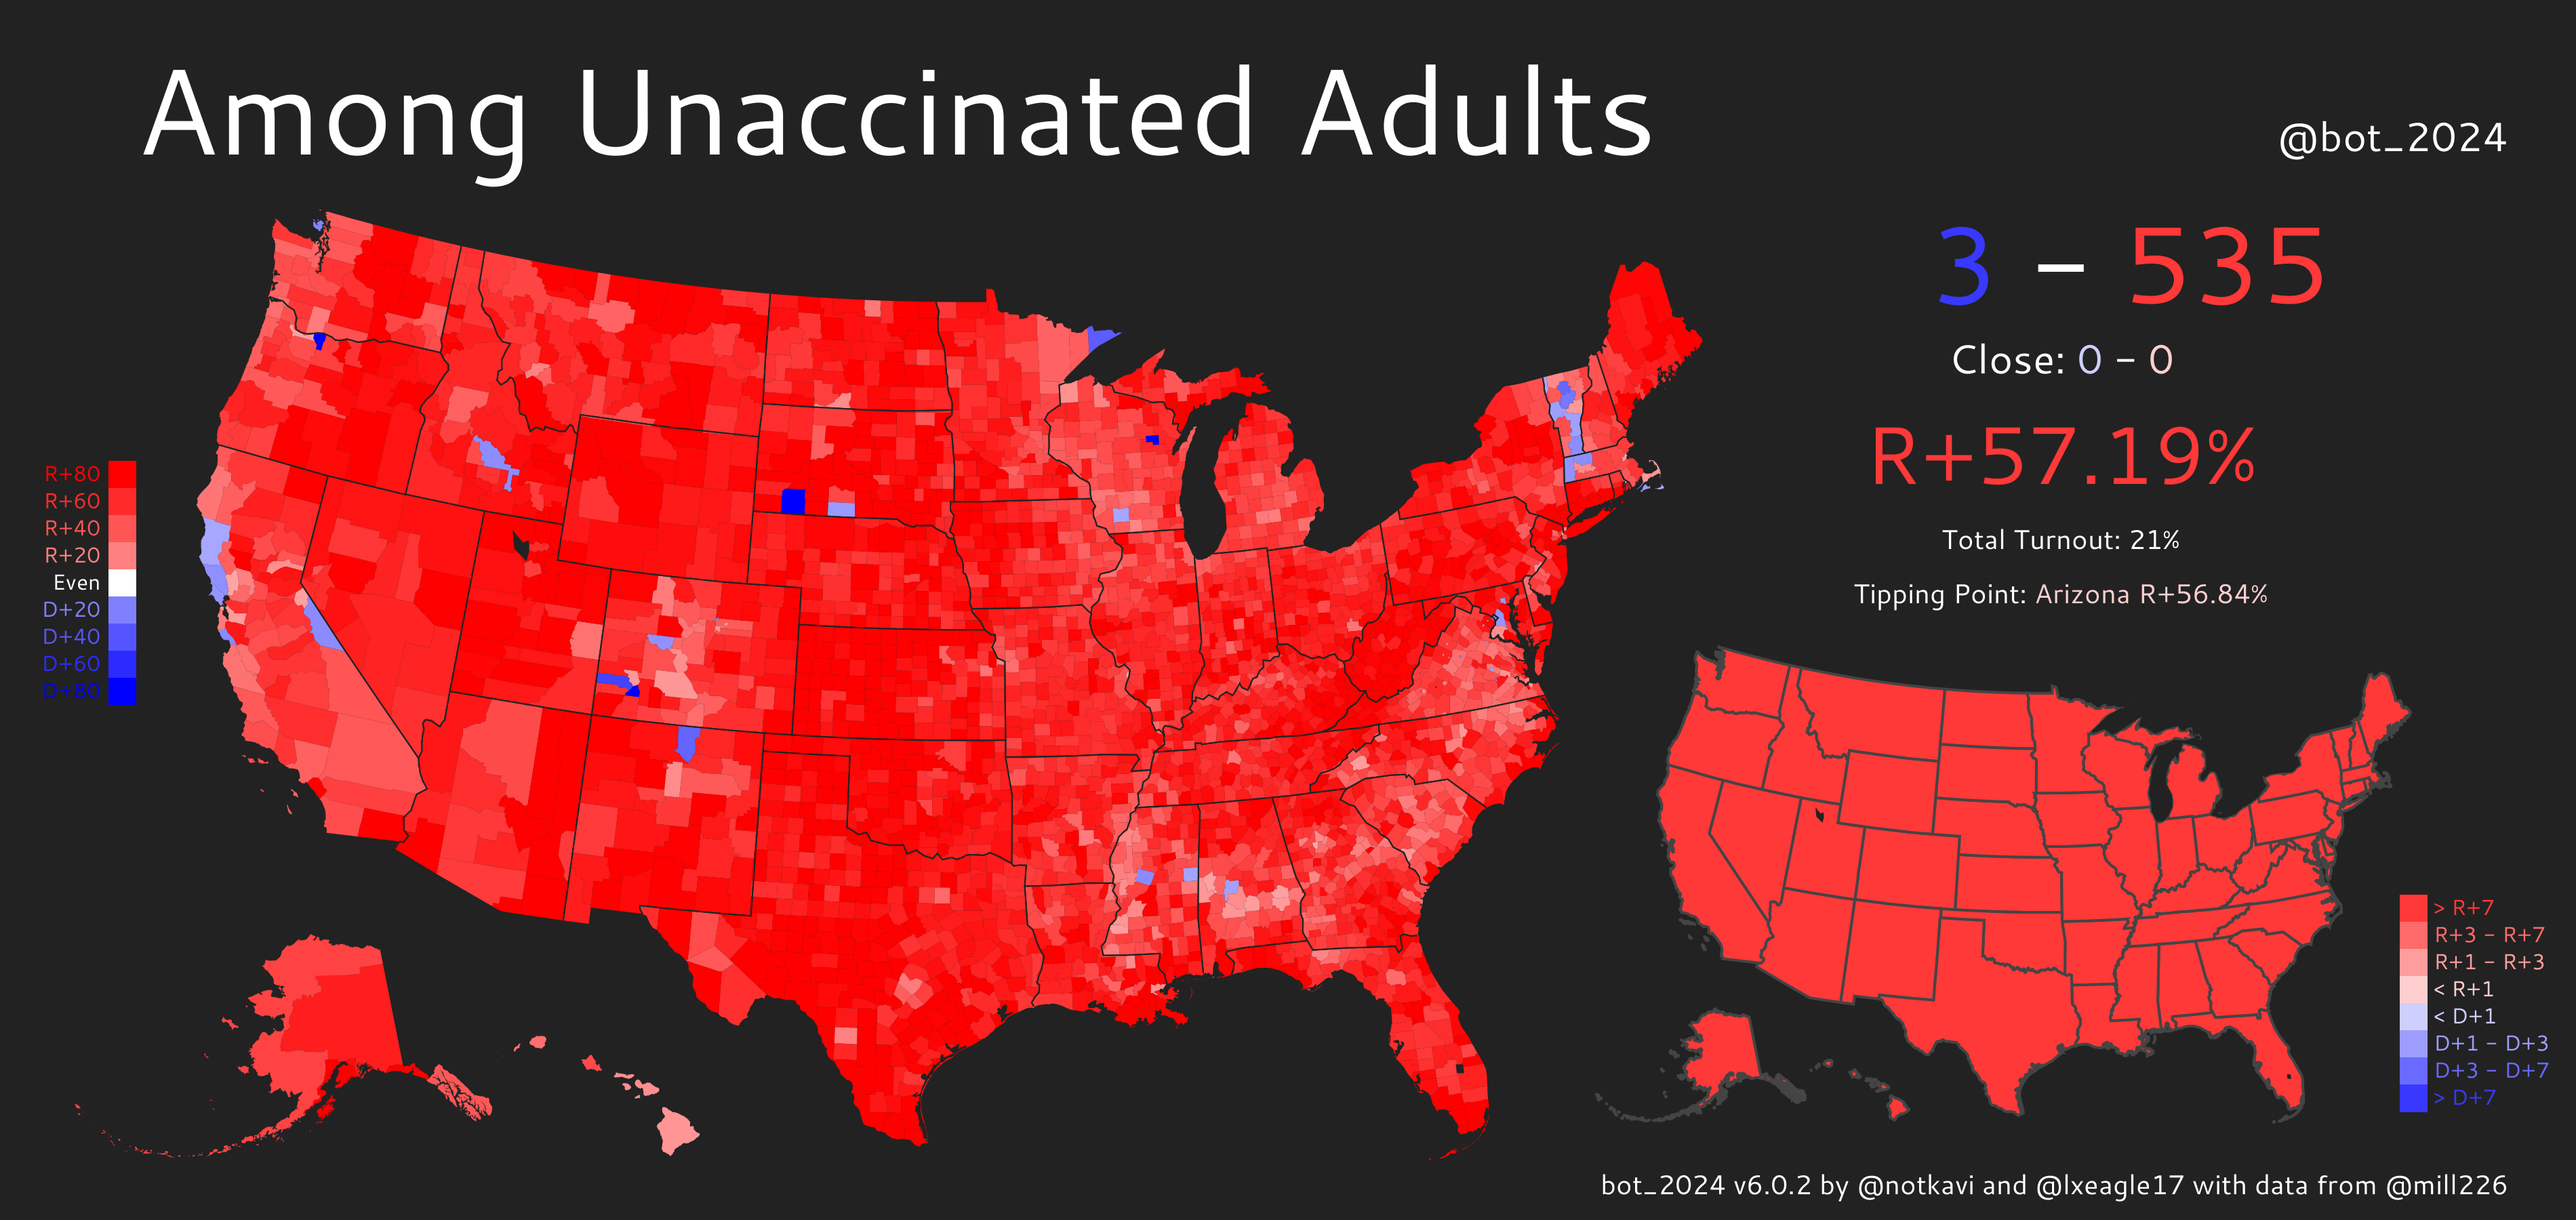
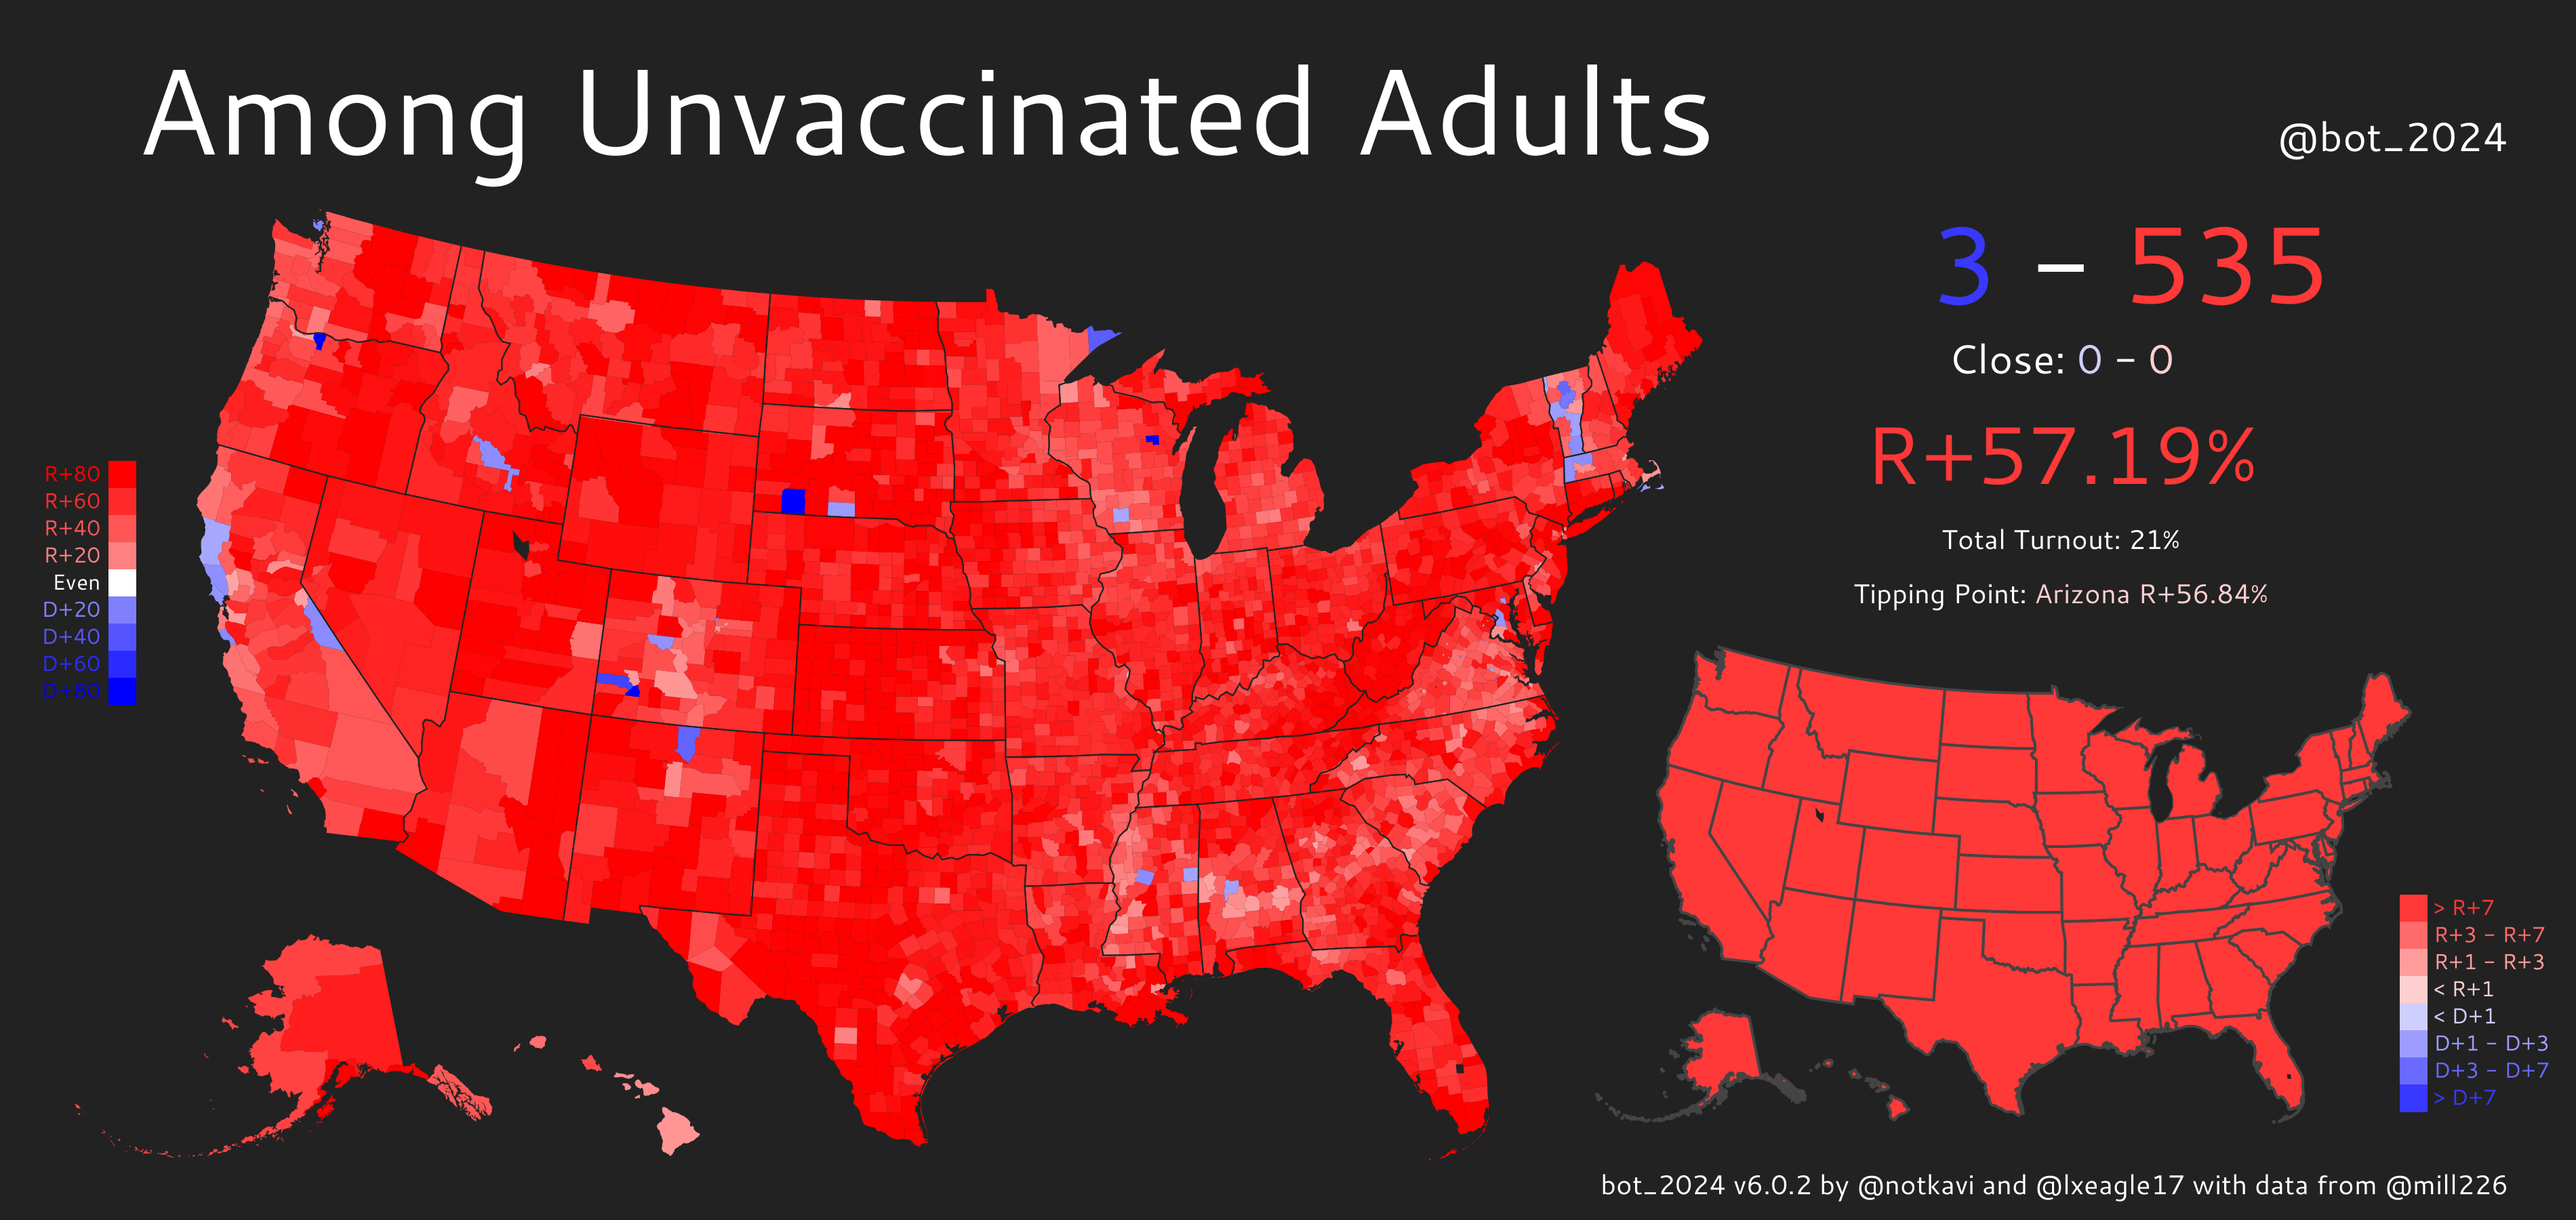
fix typo

Changed region(s): [[0.2795, 0.0622, 0.6832, 0.1244]]

diff --git a/main.py b/main.py
@@ -67,7 +67,7 @@ def plot_maps(all_data, adjusted):
     plot_election(
         all_data.data,
         adjusted[:, 1],
-        "Among Unaccinated Adults",
+        "Among Unvaccinated Adults",
         "images/unvaccinated.svg",
         use_turnout=True,
     )
